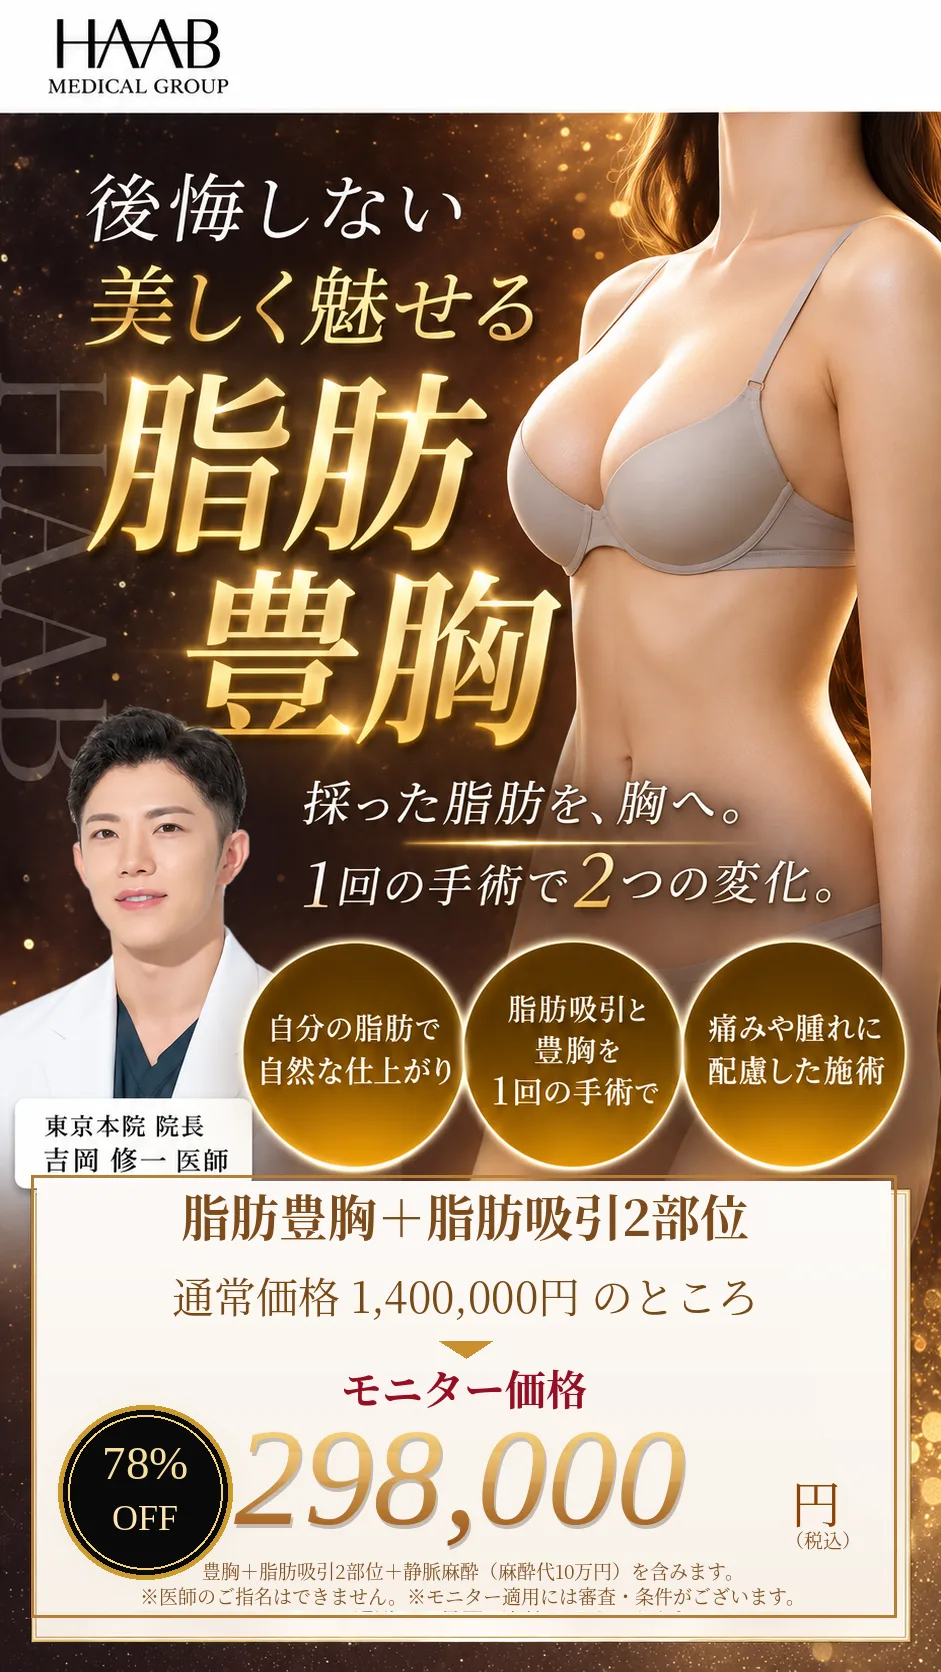
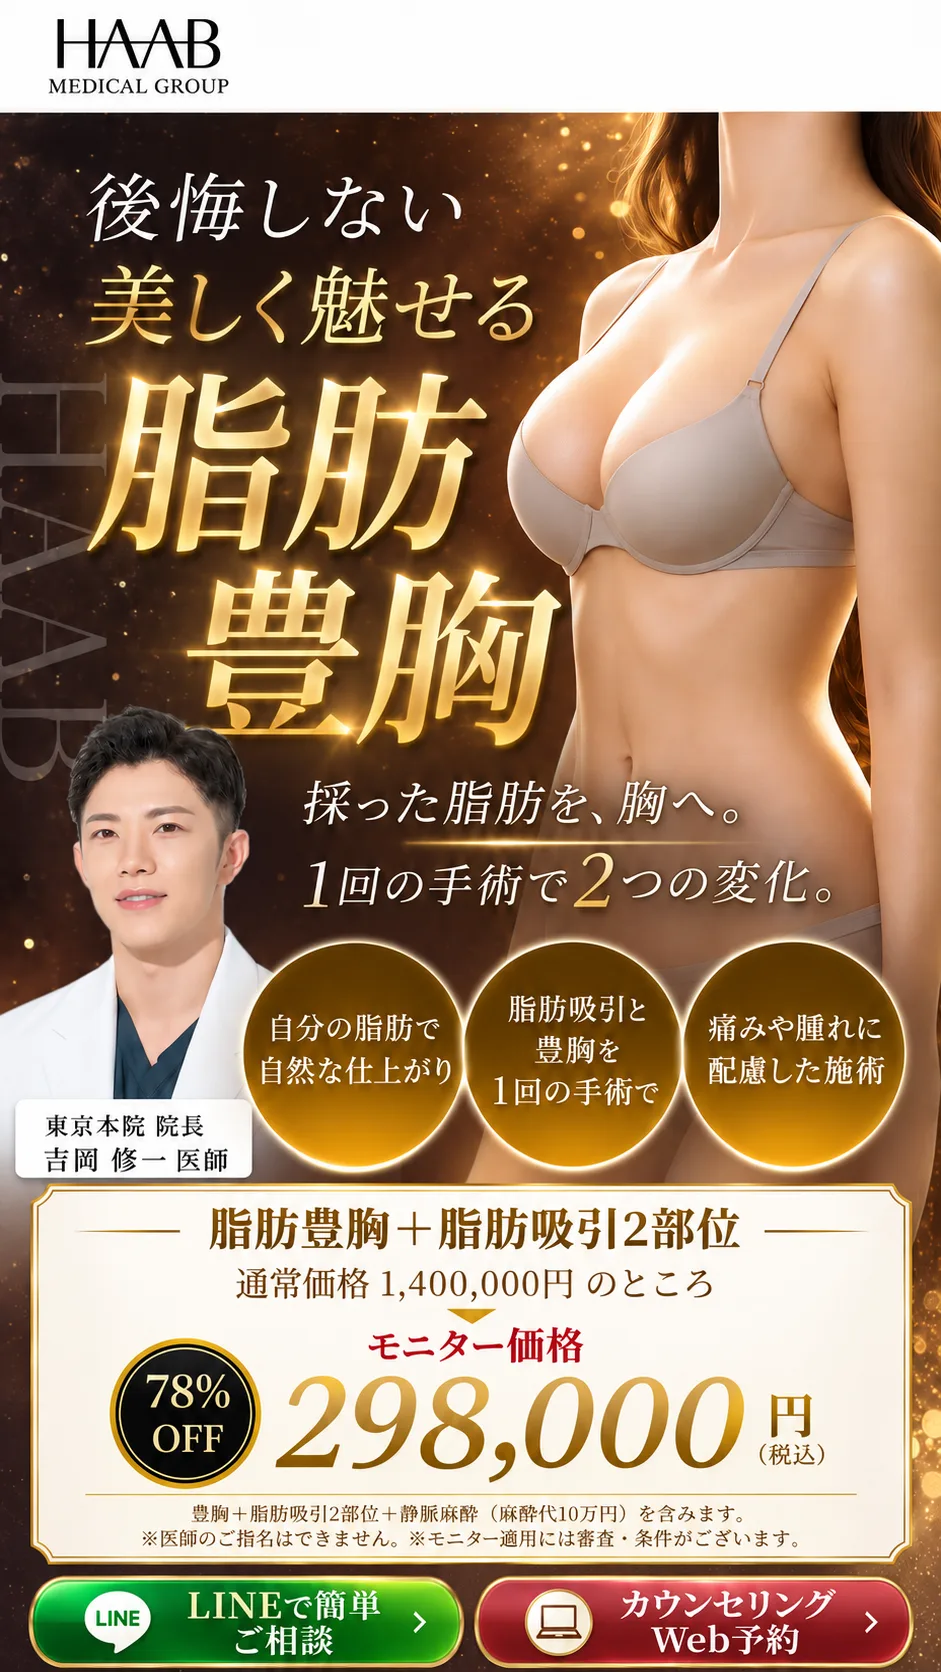
FV差し替え・セクション順序修正（料金→施術の流れ）・altテキスト修正

diff --git a/index.html b/index.html
@@ -47,8 +47,8 @@
                   <li class="nav-morph__item"><a href="#sec-doctor"    class="nav-morph__link"><span class="nav-morph__text">ドクター紹介</span></a></li>
                   <li class="nav-morph__item"><a href="#sec-areas"      class="nav-morph__link"><span class="nav-morph__text">脂肪採取できる部位</span></a></li>
                   <li class="nav-morph__item"><a href="#sec-commitment" class="nav-morph__link"><span class="nav-morph__text">4つのこだわり</span></a></li>
-                  <li class="nav-morph__item"><a href="#sec-flow"       class="nav-morph__link"><span class="nav-morph__text">施術の流れ</span></a></li>
                   <li class="nav-morph__item"><a href="#sec-price"      class="nav-morph__link"><span class="nav-morph__text">料金案内</span></a></li>
+                  <li class="nav-morph__item"><a href="#sec-flow"       class="nav-morph__link"><span class="nav-morph__text">施術の流れ</span></a></li>
                   <li class="nav-morph__item"><a href="#sec-faq"        class="nav-morph__link"><span class="nav-morph__text">よくあるご質問</span></a></li>
                   <li class="nav-morph__item"><a href="#sec-risks"      class="nav-morph__link"><span class="nav-morph__text">リスク・副作用</span></a></li>
                   <li class="nav-morph__item"><a href="#sec-clinic"     class="nav-morph__link"><span class="nav-morph__text">クリニックのご案内</span></a></li>
@@ -112,16 +112,16 @@
             <div class="fade-in"><img src="img/sec-commitment.webp" alt="HAABの脂肪豊胸 4つのこだわり" loading="lazy"></div>
           </div>
 
+          <!-- 料金案内 -->
+          <div class="sec-price_wrapper">
+            <h2 class="title" id="sec-price"><span class="visually-hidden">料金案内</span></h2>
+            <div class="fade-in"><img src="img/sec-price.webp" alt="料金案内 脂肪豊胸 モニターキャンペーン価格 298,000円〜" loading="lazy"></div>
+          </div>
+
           <!-- 施術の流れ -->
           <div class="sec-flow_wrapper">
             <h2 class="title" id="sec-flow"><span class="visually-hidden">施術の流れ</span></h2>
             <div class="fade-in"><img src="img/sec-flow.webp" alt="施術の流れ" loading="lazy"></div>
-          </div>
-
-          <!-- 料金案内 -->
-          <div class="sec-price_wrapper">
-            <h2 class="title" id="sec-price"><span class="visually-hidden">料金案内</span></h2>
-            <div class="fade-in"><img src="img/sec-price.webp" alt="料金案内 脂肪豊胸 特別モニターキャンペーン価格 348,000円〜" loading="lazy"></div>
           </div>
 
           <!-- よくあるご質問 -->
@@ -175,8 +175,8 @@
         <li><a href="#sec-doctor">ドクター紹介</a></li>
         <li><a href="#sec-areas">脂肪採取できる部位</a></li>
         <li><a href="#sec-commitment">4つのこだわり</a></li>
-        <li><a href="#sec-flow">施術の流れ</a></li>
         <li><a href="#sec-price">料金案内</a></li>
+        <li><a href="#sec-flow">施術の流れ</a></li>
         <li><a href="#sec-faq">よくあるご質問</a></li>
         <li><a href="#sec-risks">リスク・副作用</a></li>
         <li><a href="#sec-clinic">クリニックのご案内</a></li>
